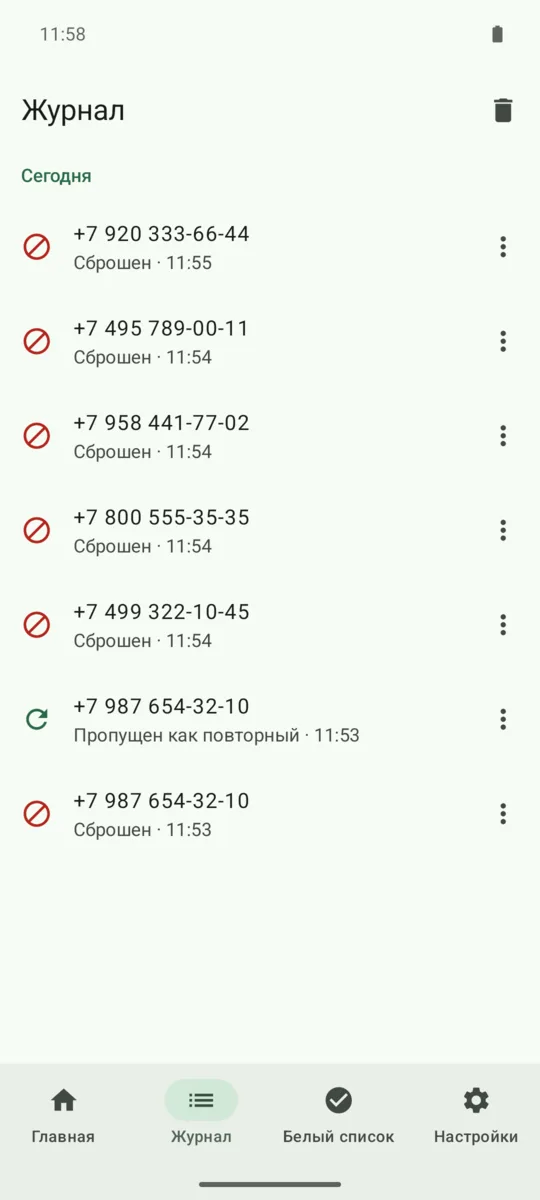
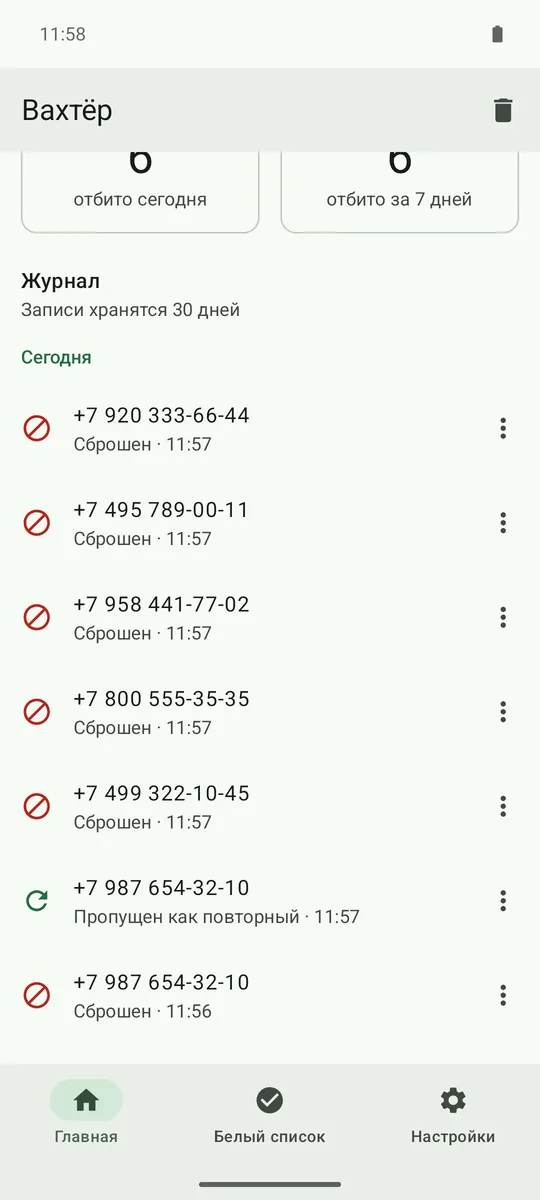
Скриншоты: журнал на главной
Кадры пересняты под версию без вкладки «Журнал», подписи обновлены.

diff --git a/index.html b/index.html
@@ -141,11 +141,11 @@
       <div class="shots">
         <figure class="shot reveal">
           <div class="frame"><img src="assets/shots/1_home.webp" alt="Главный экран: защита работает, отбито сегодня 6 звонков" width="540" height="1200" loading="lazy"></div>
-          <figcaption><b>Главная</b>Защита и последние отбитые</figcaption>
+          <figcaption><b>Главная</b>Защита и журнал</figcaption>
         </figure>
         <figure class="shot reveal" style="--delay:.08s">
-          <div class="frame"><img src="assets/shots/2_journal.webp" alt="Журнал отбитых звонков" width="540" height="1200" loading="lazy"></div>
-          <figcaption><b>Журнал</b>Все отбитые за 30 дней</figcaption>
+          <div class="frame"><img src="assets/shots/2_journal.webp" alt="Журнал отбитых звонков на главном экране" width="540" height="1200" loading="lazy"></div>
+          <figcaption><b>Журнал</b>На главной, за 30 дней</figcaption>
         </figure>
         <figure class="shot reveal" style="--delay:.16s">
           <div class="frame"><img src="assets/shots/3_whitelist.webp" alt="Белый список: банк, поликлиника, курьер, префикс +7343" width="540" height="1200" loading="lazy"></div>
